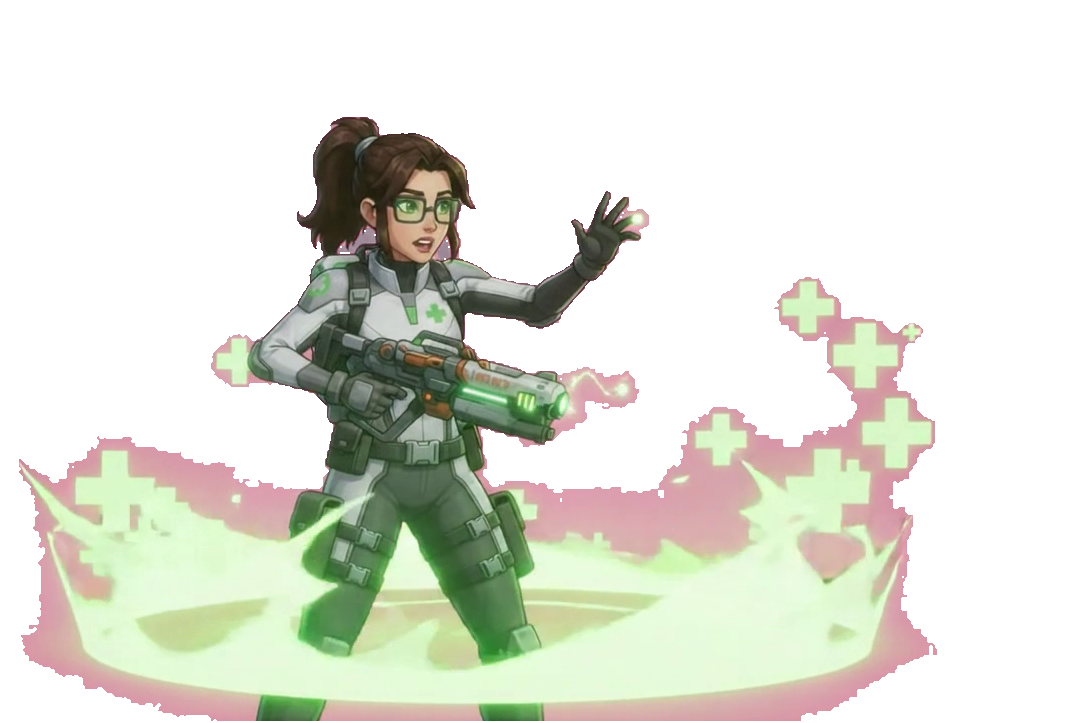
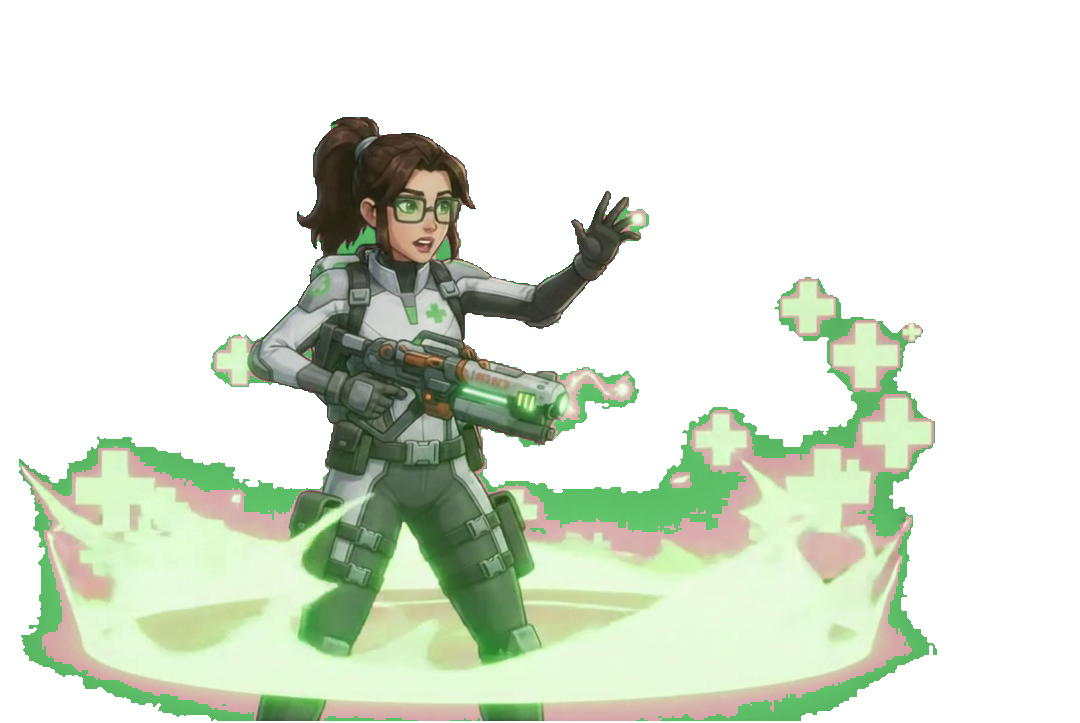
Polish Field Medic clips: green-recolor the dash/burst FX, clean idle keying
The translucent-green-over-pink FX clips (dash streaks, heal-burst aura) keyed
out pinkish because their see-through pixels are genuinely pink; re-tint those
to a green of matching brightness (key(strong=True)) so they read as the green
energy they are. The barrier dome stays on the gentle key (a uniform
translucent tint reads better than a mottled recolor on a full see-through
dome). Verified in-engine: the Medic stands 73px to TyGuy's 76px, feet-planted
and correctly proportioned; --selftest still wins all 5 missions.

Claude-Session: https://claude.ai/code/session_01C7stTX2MiAL5f8VZvZr1zp

diff --git a/games/mold_mission/cut_fieldmedic.py b/games/mold_mission/cut_fieldmedic.py
@@ -36,6 +36,13 @@ VID = {
 }
 OUT = "assets"
 
+# clips whose effect is translucent green over the pink stage (their see-through
+# pixels key out pinkish) — cut with the stronger pink-scrub (key(strong=True)).
+# (the barrier dome is a full see-through force field — a uniform translucent
+# tint from the gentle key reads better there than a forced recolor, which
+# mottles its hexes — so it's deliberately left out.)
+FX_CLIPS = {"fieldmedic_dash", "fieldmedic_burst"}
+
 # state key -> (video, first_frame, last_frame, n_frames[, crop_top, crop_right,
 # crop_bot, crop_left]). Ranges sit inside each labelled section, trimmed off the
 # caption transitions so cycles loop cleanly.
@@ -63,13 +70,18 @@ def frames_of(v):
     return _cache[v]
 
 
-def key(fr):
+def key(fr, strong=False):
     """Chroma-key the PINK stage, keep largest blob, de-spill. Returns (RGBA, mask).
 
     Pink background signature: high red AND blue with green pulled well below both
     (bg ~226,90,175). The Medic's white armour, skin and — crucially — her green
     medical accents and the green heal/barrier FX all keep green at or above the
-    other channels, so none of them trip this test."""
+    other channels, so none of them trip this test.
+
+    `strong` tightens the de-spill for the translucent-FX clips (dash streaks,
+    barrier dome, burst aura) whose green effect is semi-transparent over the
+    pink stage, so their see-through pixels read pink; it pulls those hard toward
+    green. Body/face clips leave it off so skin and her rosy lips stay warm."""
     a = np.asarray(fr.convert("RGB")).astype(int)
     r, g, b = a[:, :, 0], a[:, :, 1], a[:, :, 2]
     pink = (r > 175) & (b > 125) & (g < r - 42) & (g < b - 18)
@@ -81,12 +93,26 @@ def key(fr):
     mask = ndimage.binary_fill_holes(mask)
     src = np.asarray(fr.convert("RGB")).astype(int)
     cr, cg, cb = src[:, :, 0], src[:, :, 1], src[:, :, 2]
-    # de-spill only strongly-pink edge pixels (r and b both well above green) so we
-    # scrub the pink halo without desaturating skin (skin is only ~20 red>green).
-    spill = ((cr > cg + 40) & (cb > cg + 20)) & mask
-    cr = np.where(spill, np.minimum(cr, cg + 20), cr)
-    cb = np.where(spill, np.minimum(cb, cg + 12), cb)
-    mag = (cr > cg + 42) & (cb > cg + 18)
+    # de-spill pink edge pixels (r and b both above green) so we scrub the pink
+    # halo without desaturating skin (skin is only ~20 red>green, blue<green).
+    if strong:
+        # these clips' effect is translucent green over pink, so the see-through
+        # pixels are genuinely pink (green is faint) — merely suppressing r/b would
+        # leave them grey. RE-TINT every pink pixel to a green of the SAME
+        # brightness so the dash streaks / dome / aura read as the green energy
+        # they are. Skin (blue<green) and white armour (r~=g~=b) aren't pink-biased,
+        # so they're left alone.
+        pinkpx = ((cr > cg + 12) & (cb > cg + 4)) & mask
+        lum = 0.30 * cr + 0.55 * cg + 0.15 * cb
+        cr = np.where(pinkpx, np.clip(lum * 0.52, 0, 255), cr)
+        cg = np.where(pinkpx, np.clip(lum * 1.06, 0, 255), cg)
+        cb = np.where(pinkpx, np.clip(lum * 0.58, 0, 255), cb)
+        mag = (cr > cg + 60) & (cb > cg + 34)     # only punch out the most saturated
+    else:
+        spill = ((cr > cg + 40) & (cb > cg + 20)) & mask
+        cr = np.where(spill, np.minimum(cr, cg + 20), cr)
+        cb = np.where(spill, np.minimum(cb, cg + 12), cb)
+        mag = (cr > cg + 42) & (cb > cg + 18)
     mask = mask & ~mag
     lbl2, n2 = ndimage.label(mask)
     if n2 > 1:
@@ -126,7 +152,7 @@ def build(name, spec):
             if crop_left:
                 arr[:, :crop_left] = (226, 90, 175)
             fr = Image.fromarray(arr)
-        rgba, mask = key(fr)
+        rgba, mask = key(fr, strong=name in FX_CLIPS)
         if not mask.any():
             continue
         fx, by, ty, lx, rx = foot_x(mask)
